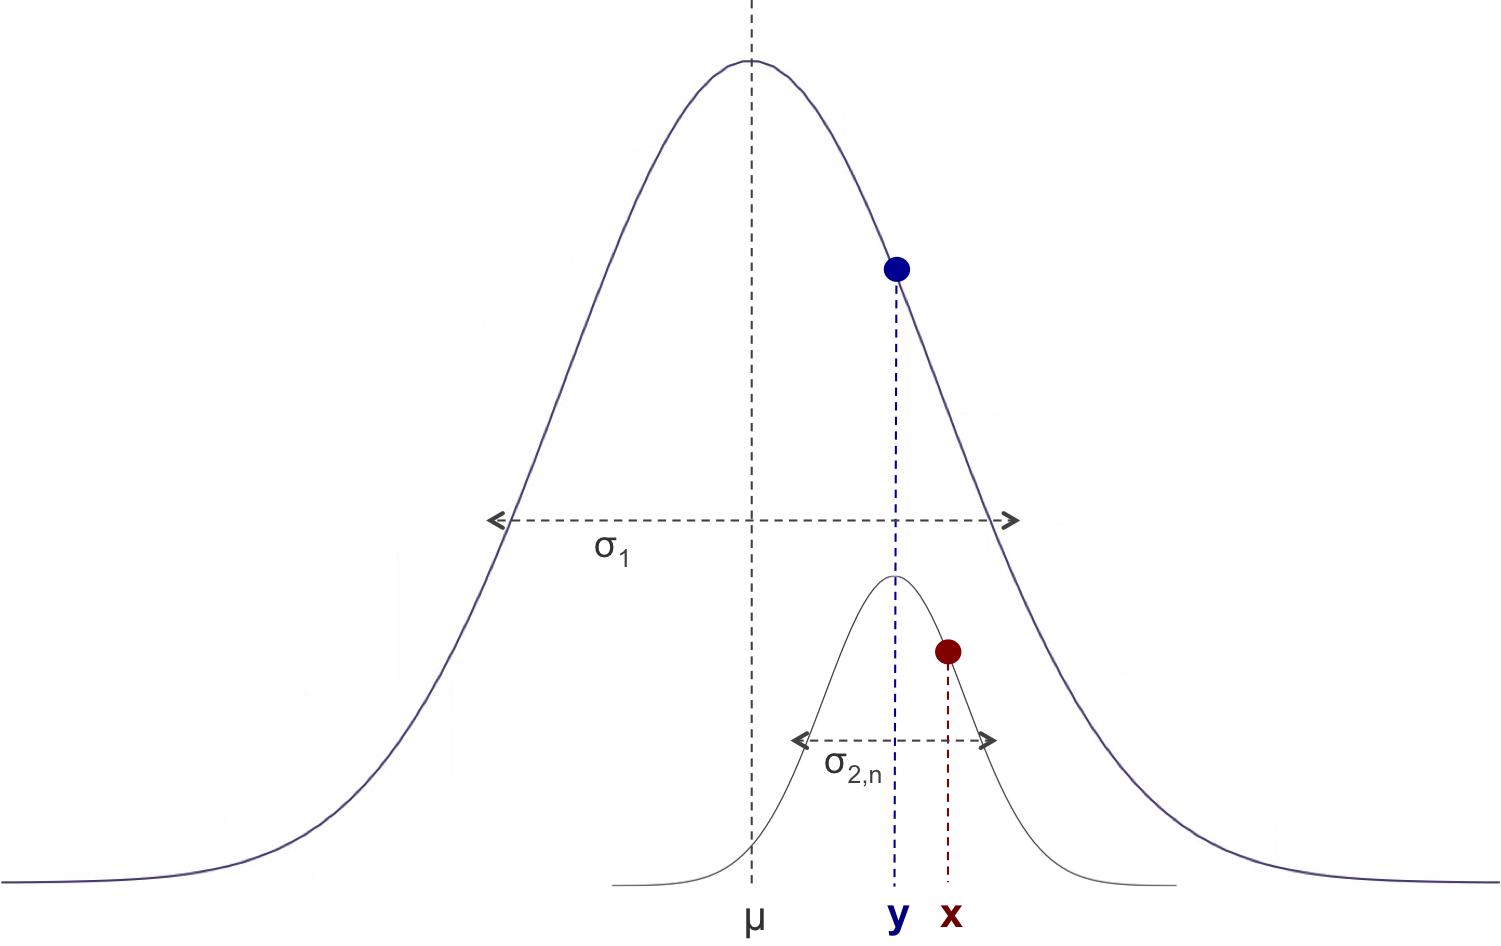
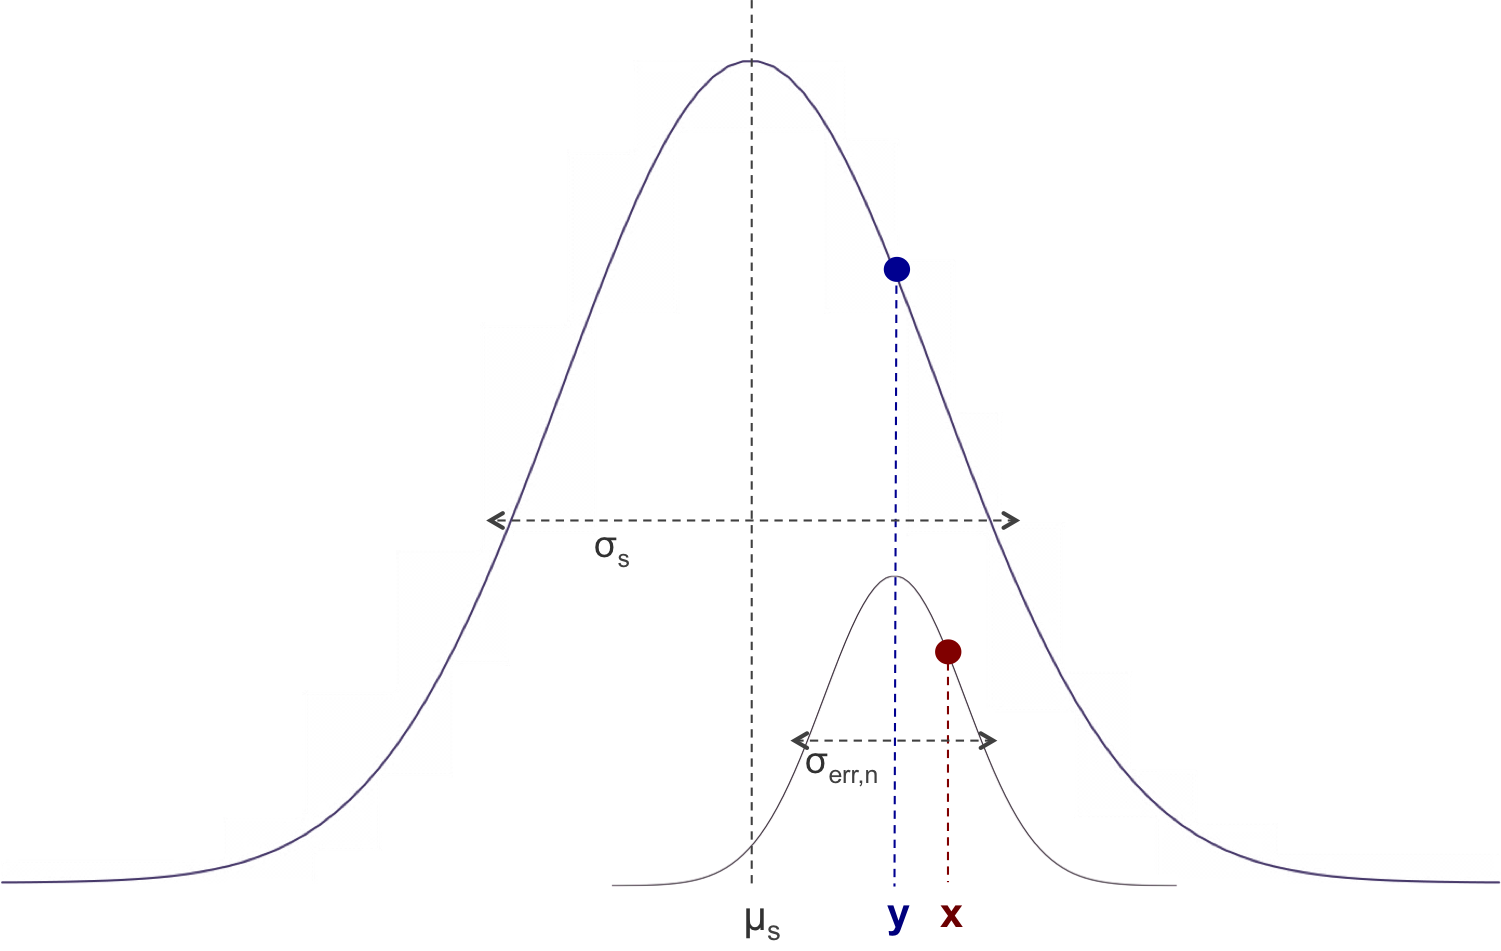
Added subscripts to mu and some other small changes

diff --git a/paper/paper.tex b/paper/paper.tex
@@ -193,9 +193,9 @@ users are observed.
 
 We model $Y$ as a Normal distribution 
 \begin{align}
-Y \sim N(\mu, \sigma_{s}^2),
+Y \sim N(\mu_s, \sigma_{s}^2),
 \end{align}
-where $\mu$ and $\sigma_{s}^2$ are the average similarity score and the variance
+where $\mu_s$ and $\sigma_{s}^2$ are the average similarity score and the variance
 of similarity scores of all pairs of items, respectively. Since $X_n$ represents
 a noisy reading of the true similarity $Y$, we model $X_n | Y=y$ as a Gaussian
 error around $y$:
@@ -225,31 +225,31 @@ Maximum Likelihood Estimate of $Y | X_n$:
 \\&= 
 \argmax_y\left[\frac{1}{\sigma_{err,n}\sqrt{2\pi}}\exp{\left(\frac{-(x-y)^2}
 {2\sigma_{err,n}^2}\right)}
-\frac{1}{\sigma_{s}\sqrt{2\pi}}\exp{\left(\frac{-(y-\mu)^2}
+\frac{1}{\sigma_{s}\sqrt{2\pi}}\exp{\left(\frac{-(y-\mu_s)^2}
 {2\sigma_{s}^2}\right)}\right]
 \\&= \argmin_y\left[\frac{(x-y)^2}{2\sigma_{err,n}^2} +
-\frac{(y-\mu)^2}{2\sigma_{s}^2}\right]
+\frac{(y-\mu_s)^2}{2\sigma_{s}^2}\right]
 \\&= \argmin_y\left[\left(\sigma_{s}^2+\sigma_{err,n}^2\right)y^2 - 
-2\left(\sigma_{s}^2x+\sigma_{err,n}^2\mu\right)y\right]
+2\left(\sigma_{s}^2x+\sigma_{err,n}^2\mu_s\right)y\right]
 \end{align}
 We find the exact minimum by taking the derivative with respect to $y$ and
 setting it to zero:
 \begin{align}
 \frac{d}{dy}\left[\left(\sigma_{s}^2+\sigma_{err,n}^2\right)y^2 - 
-2\left(\sigma_{s}^2x+\sigma_{err,n}^2\mu\right)y\right]
+2\left(\sigma_{s}^2x+\sigma_{err,n}^2\mu_s\right)y\right]
 &= 2\left(\sigma_{s}^2+\sigma_{err,n}^2\right)y - 
-2\left(\sigma_{s}^2x+\sigma_{err,n}^2\mu\right) 
+2\left(\sigma_{s}^2x+\sigma_{err,n}^2\mu_s\right) 
 \\&= 0
 \end{align}
 This produces the following linear equation for $\hat{y}$ in terms of $x$
 \begin{align}
 \hat{y} &=
-\frac{\sigma_{s}^2x+\sigma_{err,n}^2\mu}{\sigma_{s}^2+\sigma_{err,n}^2},
+\frac{\sigma_{s}^2x+\sigma_{err,n}^2\mu_s}{\sigma_{s}^2+\sigma_{err,n}^2},
 \end{align}
 which can be rewritten as
 \begin{align}
-\left(\hat{y} - \mu\right) &= \frac{\sigma_{s}^2}{\sigma_{s}^2+\sigma_{err,n}^2}
-\left(x-\mu\right).
+\left(\hat{y} - \mu_s\right) &= \frac{\sigma_{s}^2}{\sigma_{s}^2+\sigma_{err,n}^2}
+\left(x-\mu_s\right).
 \end{align}
 
 The model suggests that there is a linear correlation between $X_n$ ($Sim_n$)
@@ -260,9 +260,9 @@ scores, whereas the Slope One model seeks a linear relationship between the
 ratings a user gives to different items.} Moreover, the best predicted $TrueSim$
 is a linear combination of the average true similarity and the observed
 similiarity. Since $\sigma_{err,n}^2$ is nonnegative, the slope is always less
-than or equal to one, meaning that, on average, the observed distance from $\mu$
-overestimates the true distance from $\mu$. This is reasonable, since the prior
-distribution suggests that the true similarity is likely to be near $\mu$.
+than or equal to one. This means that, on average, the observed distance from $\mu_s$
+overestimates the true distance from $\mu_s$. This is reasonable, since the prior
+distribution suggests that the true similarity is likely to be near $\mu_s$.
 
 This model requires a different parameter $\sigma_{err,n}^2$ for each $n$.  To
 gain more generality, we model $\sigma_{err,n}^2$ as a function of $n$ instead
@@ -276,8 +276,8 @@ the square root of $n$. Thus we model $\sigma_{err,n}^2$ as
 \end{align}
 yielding the single parameter model
 \begin{align}
-\left(Y - \mu\right) = \frac{\sigma_{s}^2}{\sigma_{s}^2+\frac{\alpha}{\sqrt{n}}}
-\left(X_n-\mu\right).
+\left(Y - \mu_s\right) = \frac{\sigma_{s}^2}{\sigma_{s}^2+\frac{\alpha}{\sqrt{n}}}
+\left(X_n-\mu_s\right).
 \end{align}
 
 
@@ -307,7 +307,7 @@ learning techniques. First, we find pairs of items that have at least $N$ common
 users and calculate their $GoldSim$. Next we withold some of the users to 
 produce estimated $Sim_n$ for $n=1,...,N$. By doing this over many pairs of 
 items, we produce pairs of ($Sim_n$, $TrueSim$) across different values of $n$ 
-that can be used for training and testing. Now the parameters $\mu$, 
+that can be used for training and testing. Now the parameters $\mu_s$, 
 $\sigma_{s}^2$, and $\sigma_{err,n}^2$ can be approximated using the method of 
 moments over the training data. The values of $\sigma_{err,n}^2$ are fit to the 
 function $\frac{\alpha}{\sqrt{n}}$ and the $\alpha$ that minimizes the sum of 
@@ -315,7 +315,7 @@ squared error is computed.
 
 The graph of Fig. 3 compares the results of three linear fits, with varying
 degrees of fidelity to the probabilistic model. The most faithful fit uses
-$\mu$, $\sigma_{s}^2$ and $\alpha$ as calculated above to predict the $GoldSim$
+$\mu_s$, $\sigma_{s}^2$ and $\alpha$ as calculated above to predict the $GoldSim$
 using Eqn (18). The next fit uses the calculated values of $\sigma_{err,n}^2$ directly,
 following Eqn (16) for predictions. The third fit simply uses a series of linear
 regressions, one for each $n$. This model only assumes that for each $n$,
@@ -330,7 +330,7 @@ As the results show, the trade-off is worth it.
     in common, $n$, the graphs represent the average squared error of predicted
     $GoldSim$ calculated from the observed $Sim_n$. As a baseline, the technique
     of guessing the average $GoldSim$ is included. For these experiments, we use
-    $Sim$ = $PearSim$ and $N=100$ for determining $GoldSim$.}
+    $Sim$ = $PearSim$ and $N=70$ for determining $GoldSim$.}
     \label{fig:Linear}
 \end{figure}
 
